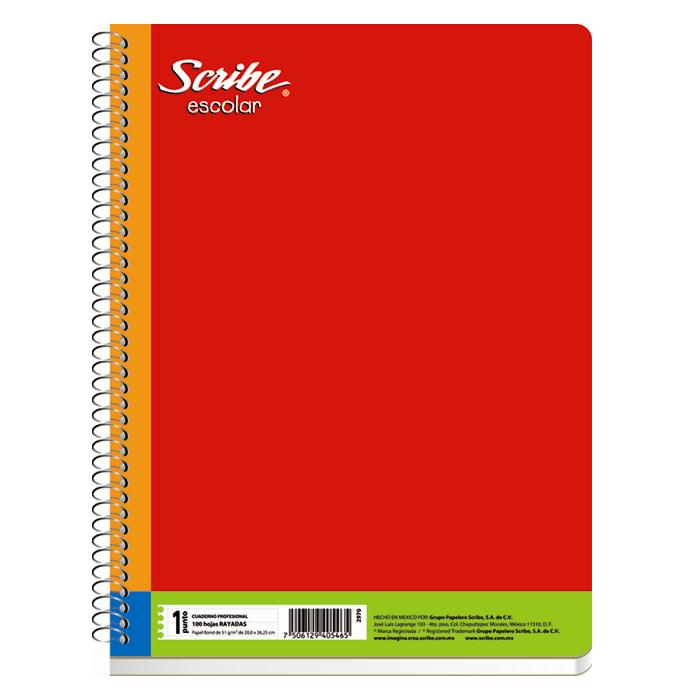
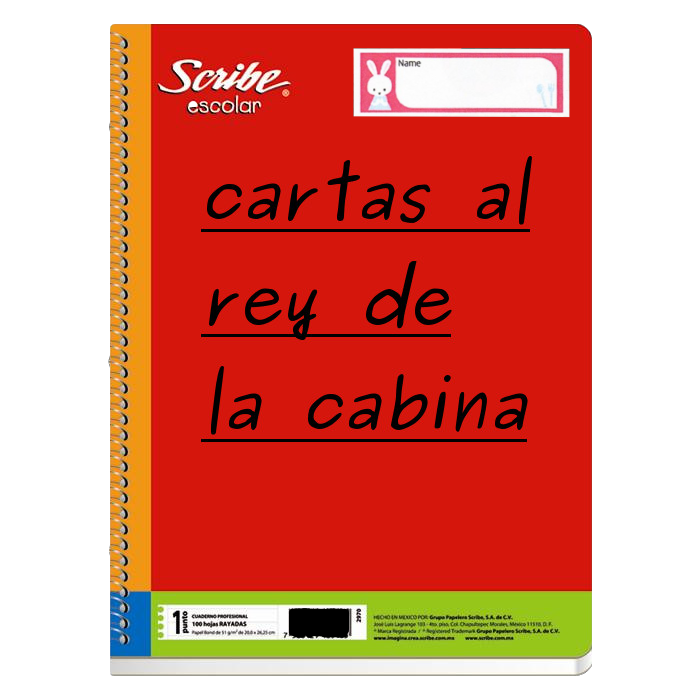
carta 10

diff --git a/Carta 10/index.html b/Carta 10/index.html
@@ -2,22 +2,49 @@
 <html>
     <head>
         <link rel="stylesheet" href="stylesheet.css"/>
-        <title>Cartas al Rey de la Cabina</title>
+        <title>Carta 10</title>
     </head>
     <body>
-        <img src="cuaderno.jpg"/>
+        <div class="hoja">
+            <div class=carta>
+                    <br><br><br>
+                    <!--aca se escrive la carta-->
+                    Querido Rey de la Cabina:
+                    <br>
+                    <br>Qué bueno que vengas en tren.
+                    <br>Qué bueno que vengas.
+                    <br>Qué bueno.
+                    <br>Qué bueno que vengas en tren.
+                    <br>Siempre es más amable,
+                    <br>y para mí es más fácil estar en la estación
+                    <br>(hubiera preferido otro día, pero puedo faltar  esto y lo otro)
+                    <br>¿Qué digo? “¿Hubiera preferido?". Sera domingo
+                    <div class="adelnate">cualquier día que vengas,</div>
+                    ven ya.
+                    <br>Sabrás disculpar que sólo las yemas de mis dedos
+                    <br>estén heridas para y tu llegada
+                    <br>y permanezcan calladas, y apenas toquen.
+                    <br>Toda yo estaré de fiesta…
+                    <br>y no esperes que lo esconda.
+                    <div class="firma">Paloma</div>
+                    <br><br><br><br><br><br><br><br><br><br><br><br><br><br><br><br><br><br><br><br><br><br><br><br><br>
+            </div>
+        </div>
         <div class="menu">
             <div class="boton">
+                <a href="https://porti-magic.github.io/cartas/Carta%209/"><--Anterior</a>    
+            </div>
+            <div class="boton">
                     <div class="capitulo">
-                        <h3><a>Portada</a></h3>
+                        <h3><a>Carta 10</a></h3>
                     </div>
             </div>
             <div class="boton">
                 <div class="derecha">
-                    <a href="https://porti-magic.github.io/cartas/Carta%201/">Siguiente--></a>    
+                    <a href="https://porti-magic.github.io/cartas/Carta%2011/">Siguiente--></a>    
                 </div>
             </div>
-            <ul class="capitulos">
+                       <ul class="capitulos">
                         <li><a href="https://porti-magic.github.io/cartas">Portada</a></li>
                         <li><a href="https://porti-magic.github.io/cartas/Carta%201/">Carta 1</a></li>
                         <li><a href="https://porti-magic.github.io/cartas/Carta%202/">Carta 2</a></li>
@@ -42,7 +69,7 @@
                         <li><a href="https://porti-magic.github.io/cartas/Carta%2021/">Carta 21</a></li>
                         <li><a href="https://porti-magic.github.io/cartas/Carta%2022/">Carta 22</a></li>
                         <li><a href="https://porti-magic.github.io/cartas/Epilogo">Epílogo</a></li>
-            </ul> 
+            </ul>
         </div>
     </body>
 </html>

diff --git a/Carta 10/stylesheet.css b/Carta 10/stylesheet.css
@@ -65,3 +65,8 @@ img{
     display: inline-block;
     width: 45%;
 }
+
+.adelante{
+    position: relative;
+    left: 95px;
+}
